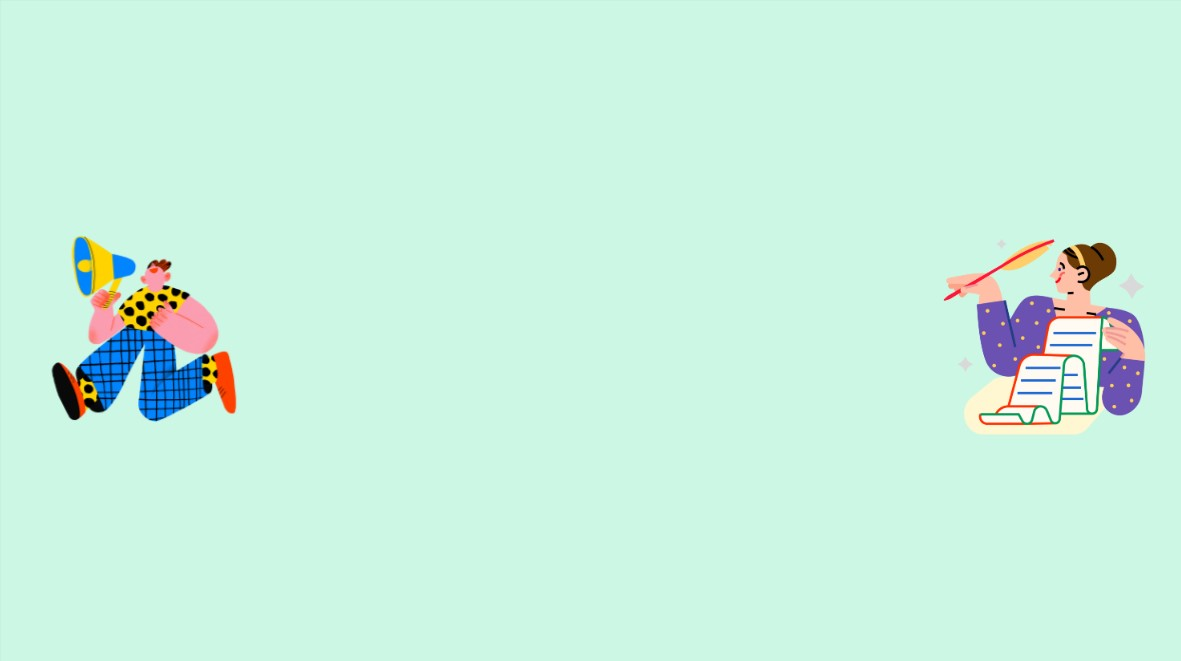
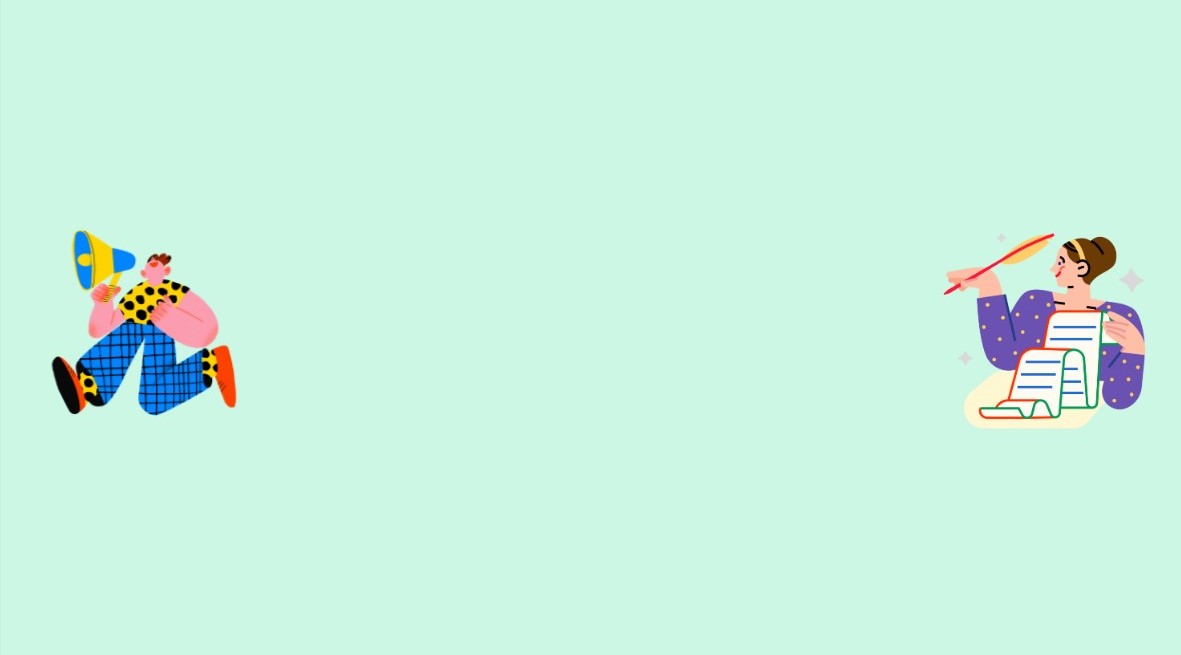
THE

Changed region(s): [[0.7925, 0.3359, 0.9754, 0.6718], [0.0305, 0.3359, 0.2134, 0.6412]]

diff --git a/style.css b/style.css
@@ -458,7 +458,9 @@ margin-bottom: 9px;
 
 /*team start */
 .container{
-    background: #ccf7e4;
+    background-image: url("img/Team-back.jpg");
+    background-size: cover;
+    background-repeat: no-repeat;
     padding:10px;
     /* margin-top:5px; */
     /* margin-bottom:10px; */
